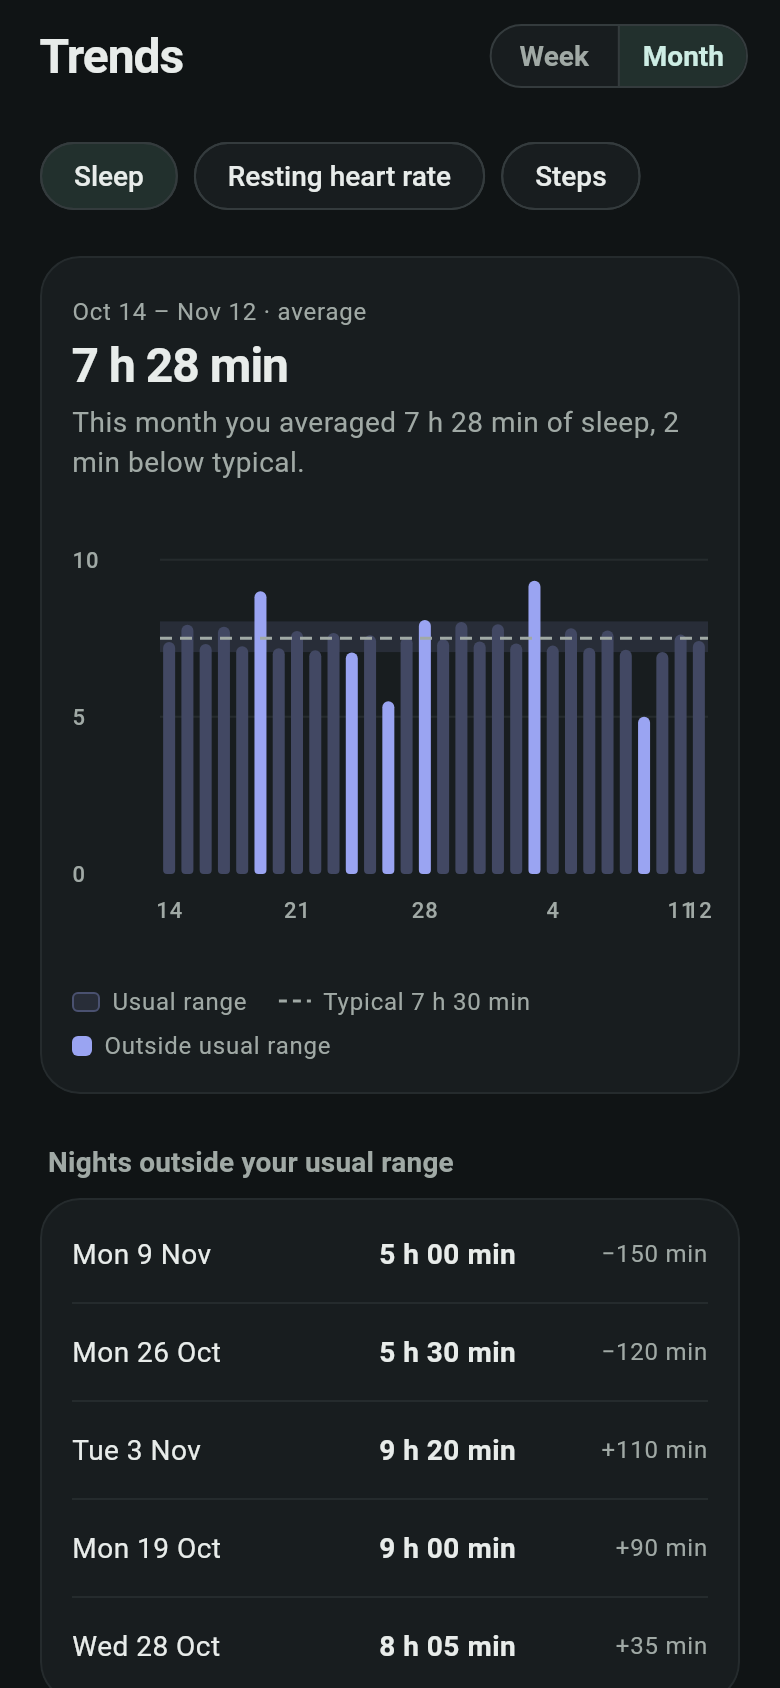
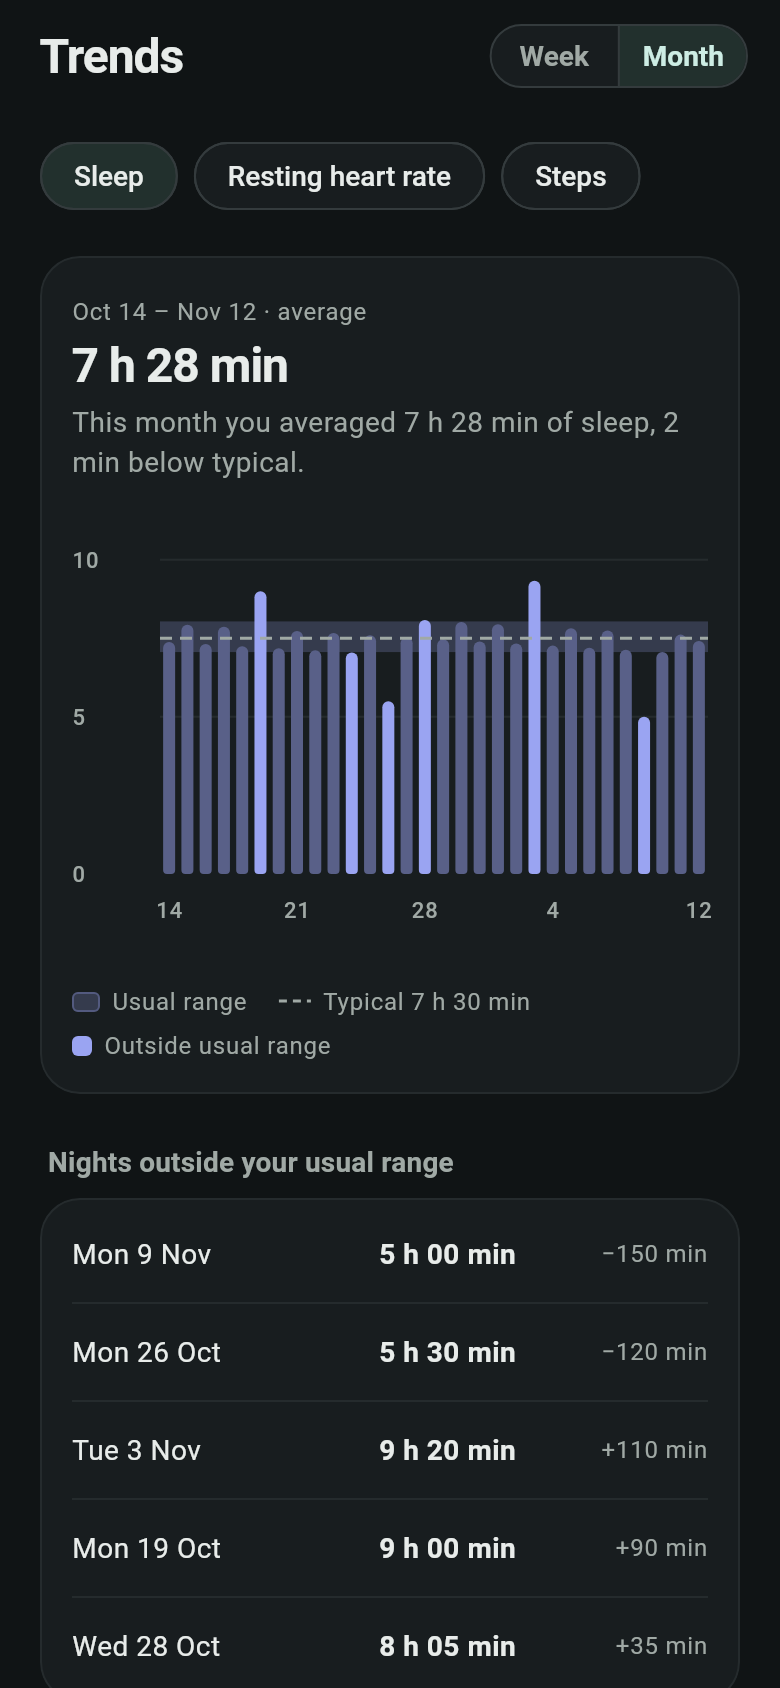
Fix UI issues from screenshot review; add history-review screenshot
Claude-Session: https://claude.ai/code/session_01Bj1ZBwr5J7QMu6k2WYgFhz

Changed region(s): [[0.1846, 0.3697, 0.9231, 0.5237]]

diff --git a/app/lib/features/workouts/ui/workout_today_card.dart b/app/lib/features/workouts/ui/workout_today_card.dart
@@ -46,10 +46,14 @@ class _WorkoutTodayCardState extends ConsumerState<WorkoutTodayCard> {
     final candidate = state.candidateType;
     final theme = Theme.of(context);
     final palette = MetricColors.of(context);
+    final muted = theme.colorScheme.onSurfaceVariant;
+    final body = theme.textTheme.bodyMedium;
+    final note = theme.textTheme.bodySmall?.copyWith(color: muted);
     return WorkoutPromptHost(
       child: AppCard(
         child: Column(
           crossAxisAlignment: CrossAxisAlignment.stretch,
+          spacing: 8,
           children: [
             Row(
               children: [
@@ -67,14 +71,15 @@ class _WorkoutTodayCardState extends ConsumerState<WorkoutTodayCard> {
                 ),
               ],
             ),
-            const SizedBox(height: 12),
+            const SizedBox(height: 4),
             if (session != null) ...[
               Text(
                 '${session.type.label} · ${workoutDuration(session.duration)}',
                 style: theme.textTheme.titleLarge,
               ),
               Text(
-                '${session.steps} steps · ${(session.distanceMeters / 1000).toStringAsFixed(2)} km',
+                '${_steps(session.steps)} steps · ${(session.distanceMeters / 1000).toStringAsFixed(2)} km',
+                style: body?.copyWith(color: muted),
               ),
               FilledButton.tonal(
                 onPressed: ref.read(workoutProvider.notifier).acceptStop,
@@ -83,23 +88,29 @@ class _WorkoutTodayCardState extends ConsumerState<WorkoutTodayCard> {
             ] else if (candidate != null && state.activityStartedAt != null)
               Text(
                 "Looks like you're ${activityVerb(candidate)} (${state.now.difference(state.activityStartedAt!).inMinutes} min)",
+                style: body,
               )
             else
-              Text(state.autoStart ? 'Watching' : 'Auto-start prompts off'),
-            if (state.sensorNotice != null)
-              Text(state.sensorNotice!, style: theme.textTheme.bodySmall),
-            if (state.simulator) const Text('Simulator · 20× speed'),
-            if (state.historyNotice != null) Text(state.historyNotice!),
+              Text(
+                state.autoStart ? 'Watching' : 'Auto-start prompts off',
+                style: body?.copyWith(color: muted),
+              ),
+            if (state.sensorNotice != null) Text(state.sensorNotice!, style: note),
+            if (state.simulator) Text('Simulator · 20× speed', style: note),
+            if (state.historyNotice != null)
+              Text(state.historyNotice!, style: note),
             for (final review in state.historyCandidates) ...[
-              const Divider(),
+              const Divider(height: 24),
               Text(
                 'Did you ${review.type.name == 'bike' ? 'cycle' : review.type.name} '
                 '${DateFormat.Hm().format(review.startedAt.toLocal())}–'
                 '${DateFormat.Hm().format(review.endedAt!.toLocal())}? '
                 '${NumberFormat.decimalPattern().format(review.steps)} steps',
+                style: body?.copyWith(fontWeight: FontWeight.w600),
               ),
               Wrap(
                 spacing: 8,
+                runSpacing: 8,
                 children: [
                   FilledButton.tonal(
                     onPressed: () => ref
@@ -117,14 +128,14 @@ class _WorkoutTodayCardState extends ConsumerState<WorkoutTodayCard> {
               ),
             ],
             if (state.todaySessions.isNotEmpty) ...[
-              const Divider(),
+              const Divider(height: 24),
               Text("Today's workouts", style: theme.textTheme.titleSmall),
               for (final workout in state.todaySessions)
                 ListTile(
                   contentPadding: EdgeInsets.zero,
                   title: Text(workout.type.label),
                   subtitle: Text(
-                    '${DateFormat.Hm().format(workout.startedAt.toLocal())} · ${workoutDuration(workout.duration)} · ${workout.steps} steps',
+                    '${DateFormat.Hm().format(workout.startedAt.toLocal())} · ${_minutes(workout.duration)} · ${_steps(workout.steps)} steps',
                   ),
                   trailing: const Icon(Icons.chevron_right),
                   onTap: () => showWorkoutSummary(context, workout),
@@ -135,4 +146,14 @@ class _WorkoutTodayCardState extends ConsumerState<WorkoutTodayCard> {
       ),
     );
   }
+}
+
+String _steps(int steps) => NumberFormat.decimalPattern('en').format(steps);
+
+/// A finished workout's length: "30 min", or "1 h 05 min" from an hour up.
+String _minutes(Duration duration) {
+  final minutes = duration.inMinutes;
+  return minutes < 60
+      ? '$minutes min'
+      : '${minutes ~/ 60} h ${(minutes % 60).toString().padLeft(2, '0')} min';
 }

diff --git a/app/lib/features/workouts/ui/workout_settings_section.dart b/app/lib/features/workouts/ui/workout_settings_section.dart
@@ -58,6 +58,7 @@ class _WorkoutSettingsSectionState
               padding: const EdgeInsets.all(16),
               child: Column(
                 crossAxisAlignment: CrossAxisAlignment.stretch,
+                spacing: 8,
                 children: [
                   SwitchListTile(
                     contentPadding: EdgeInsets.zero,
@@ -144,21 +145,24 @@ class _WorkoutSettingsSectionState
                         ),
                       ],
                     ),
-                    const Text(
+                    Text(
                       'Updates every 15 seconds. Use Start when prompted, then Stop moving to see the stop prompt.',
+                      style: _note(context),
                     ),
                   ],
-                  if (state.sensorNotice != null) Text(state.sensorNotice!),
+                  if (state.sensorNotice != null)
+                    Text(state.sensorNotice!, style: _note(context)),
                   OutlinedButton.icon(
                     onPressed: notifier.requestNotificationPermission,
                     icon: const Icon(Icons.notifications_outlined),
                     label: const Text('Enable workout notifications'),
                   ),
-                  if (state.historyNotice != null) Text(state.historyNotice!),
-                  const SizedBox(height: 8),
+                  if (state.historyNotice != null)
+                    Text(state.historyNotice!, style: _note(context)),
+                  const SizedBox(height: 4),
                   Text(
                     'Signed-in workouts sync with health consent. Other workouts and settings last for this app session. On iPhone, recent motion history is checked when you return. Background refresh reminders depend on iOS. Live prompts need the app to be running.',
-                    style: Theme.of(context).textTheme.bodySmall,
+                    style: _note(context),
                   ),
                 ],
               ),
@@ -169,3 +173,8 @@ class _WorkoutSettingsSectionState
     );
   }
 }
+
+TextStyle? _note(BuildContext context) => Theme.of(context)
+    .textTheme
+    .bodySmall
+    ?.copyWith(color: Theme.of(context).colorScheme.onSurfaceVariant);

diff --git a/app/test/screenshots/screenshots_test.dart b/app/test/screenshots/screenshots_test.dart
@@ -23,6 +23,7 @@ import 'package:wearable_companion/features/workouts/data/workout_repository.dar
 import 'package:wearable_companion/features/workouts/workout_provider.dart';
 
 import '../support/fake_repositories.dart';
+import '../support/motion_history_fake.dart';
 import '../support/workout_fakes.dart';
 
 /// Renders the main screens in light and dark mode at 390×844 @2x with real
@@ -72,6 +73,7 @@ void main() {
     FakeHealthRepository? health,
     FakeCoachRepository? coach,
     List<DateTime> workoutStarts = const [],
+    bool historyCandidate = false,
   }) async {
     tester.view.physicalSize = const Size(780, 1688);
     tester.view.devicePixelRatio = 2;
@@ -100,6 +102,9 @@ void main() {
       stepSourceProvider.overrideWithValue(steps),
       workoutTickIntervalProvider.overrideWithValue(null),
       workoutRepositoryProvider.overrideWithValue(repository),
+      if (historyCandidate)
+        motionHistorySourceProvider.overrideWithValue(
+          FakeMotionHistory(DateTime(2026, 11, 12, 9, 10))),
     ]);
     addTearDown(() async {
       container.dispose();
@@ -167,6 +172,13 @@ void main() {
       await shoot(tester, 'today_$suffix');
       await scrollDown(tester);
       await shoot(tester, 'today_${suffix}_2');
+    },
+    'today_candidate': (WidgetTester tester, Brightness b, String suffix) async {
+      await pumpScreen(tester, const TodayScreen(), b,
+        health: FakeHealthRepository(rows: richHistory()),
+        historyCandidate: true);
+      await scrollDown(tester, 1200);
+      await shoot(tester, 'today_candidate_$suffix');
     },
     'today_learning': (WidgetTester tester, Brightness b, String suffix) async {
       await pumpScreen(tester, const TodayScreen(), b,
@@ -236,7 +248,7 @@ void main() {
       await tester.pumpAndSettle();
       await tester.tap(find.text('Workout detection'));
       await tester.pumpAndSettle();
-      await tester.ensureVisible(find.text('Auto-stop prompts'));
+      await tester.ensureVisible(find.text('Enable workout notifications'));
       await tester.pumpAndSettle();
       await shoot(tester, 'settings_${suffix}_workout');
     },

diff --git a/app/lib/features/trends/widgets/trends_chart.dart b/app/lib/features/trends/widgets/trends_chart.dart
@@ -33,8 +33,11 @@ class _TrendsChartState extends State<TrendsChart> {
     };
     // With a usual range, days inside it are muted so the off days stand out.
     final hasRange = data.usualLow != null && data.usualHigh != null;
-    final muted = Color.alphaBlend(color.withValues(alpha: 0.32), scheme.surfaceContainerLowest);
-    final band = color.withValues(alpha: 0.12);
+    // Dark surfaces need a stronger tint for the same visual separation.
+    final dark = theme.brightness == Brightness.dark;
+    final muted = Color.alphaBlend(
+      color.withValues(alpha: dark ? 0.5 : 0.32), scheme.surfaceContainerLowest);
+    final band = color.withValues(alpha: dark ? 0.22 : 0.12);
     final usual = data.usual;
     final maxValue = [
       1.0,
@@ -126,8 +129,11 @@ class _TrendsChartState extends State<TrendsChart> {
                           final i = value.toInt();
                           if (i < 0 || i >= days.length) return const SizedBox.shrink();
                           final day = days[i];
+                          // The last day is always labelled, unless a weekly
+                          // label is right next to it and would collide.
+                          final last = days.length - 1;
                           final labelDate = data.range == TrendRange.week ||
-                              i % 7 == 0 || i == days.length - 1;
+                              (i % 7 == 0 && last - i >= 3) || i == last;
                           return Column(children: [
                             if (day.value == null)
                               Tooltip(

diff --git a/app/lib/features/today/today_screen.dart b/app/lib/features/today/today_screen.dart
@@ -497,14 +497,15 @@ class _MetricCard extends StatelessWidget {
             children: [
               MetricIcon(icon: icon, color: color, tint: tint),
               const SizedBox(width: AppSpace.m),
-              Expanded(
-                flex: 2,
+              // The title keeps its natural width (capped), the value takes
+              // the rest and sits flush right.
+              ConstrainedBox(
+                constraints: const BoxConstraints(maxWidth: 140),
                 child: Text(title, style: theme.textTheme.titleSmall,
                   maxLines: 1, overflow: TextOverflow.ellipsis),
               ),
               const SizedBox(width: AppSpace.s),
-              Flexible(
-                flex: 3,
+              Expanded(
                 child: Text(value, style: theme.textTheme.titleLarge,
                   textAlign: TextAlign.end, maxLines: 1,
                   overflow: TextOverflow.ellipsis),

diff --git a/app/lib/core/theme.dart b/app/lib/core/theme.dart
@@ -206,6 +206,16 @@ ThemeData buildTheme(Brightness brightness) {
               ? scheme.onSurface : scheme.onSurfaceVariant,
         )),
     ),
+    switchTheme: SwitchThemeData(
+      // An off switch needs a visible track and outline on dark cards.
+      trackOutlineColor: WidgetStateProperty.resolveWith((states) =>
+          states.contains(WidgetState.selected) ? Colors.transparent
+              : scheme.outline),
+      thumbColor: WidgetStateProperty.resolveWith((states) =>
+          states.contains(WidgetState.disabled) ? null
+              : states.contains(WidgetState.selected) ? null
+              : scheme.onSurfaceVariant),
+    ),
     filledButtonTheme: FilledButtonThemeData(
       style: FilledButton.styleFrom(
         shape: stadium,

diff --git a/app/lib/features/coach/coach_screen.dart b/app/lib/features/coach/coach_screen.dart
@@ -223,10 +223,7 @@ class _CoachScreenState extends ConsumerState<CoachScreen> {
               controller: _input,
               maxLength: 500, maxLines: 3, minLines: 1,
               inputFormatters: [LengthLimitingTextInputFormatter(500)],
-              decoration: const InputDecoration(
-                labelText: 'Ask the coach',
-                floatingLabelBehavior: FloatingLabelBehavior.never,
-              ),
+              decoration: const InputDecoration(hintText: 'Ask the coach'),
               // The 500-character limit only matters near the end.
               buildCounter: (context, {required currentLength, required isFocused,
                   required maxLength}) => currentLength > 400

diff --git a/app/test/workout_widgets_test.dart b/app/test/workout_widgets_test.dart
@@ -301,7 +301,7 @@ void main() {
       await tester.tap(find.text('Start Run instead'));
       await tester.pumpAndSettle();
       expect(find.text('Run · 10:00'), findsOneWidget);
-      expect(find.text('1000 steps · 0.75 km'), findsOneWidget);
+      expect(find.text('1,000 steps · 0.75 km'), findsOneWidget);
       advance(const Duration(minutes: 1));
       steps.emit(2160);
       await tester.pumpAndSettle();

diff --git a/docs/screenshots/README.md b/docs/screenshots/README.md
@@ -7,6 +7,7 @@ network is needed.
 | Screen | Files |
 | --- | --- |
 | Today (steady and changed metrics, a workout logged today) | `today_{light,dark}.png`, `today_{light,dark}_2.png` (scrolled) |
+| Today with a "Did you walk…" history review card | `today_candidate_{light,dark}.png` |
 | Today while learning (4 of 7 days) | `today_learning_{light,dark}.png` |
 | Trends: sleep, month, nights outside the usual range | `trends_{light,dark}.png`, `trends_{light,dark}_2.png` (scrolled) |
 | Coach with history and an open "Numbers used" panel | `coach_{light,dark}.png` |
